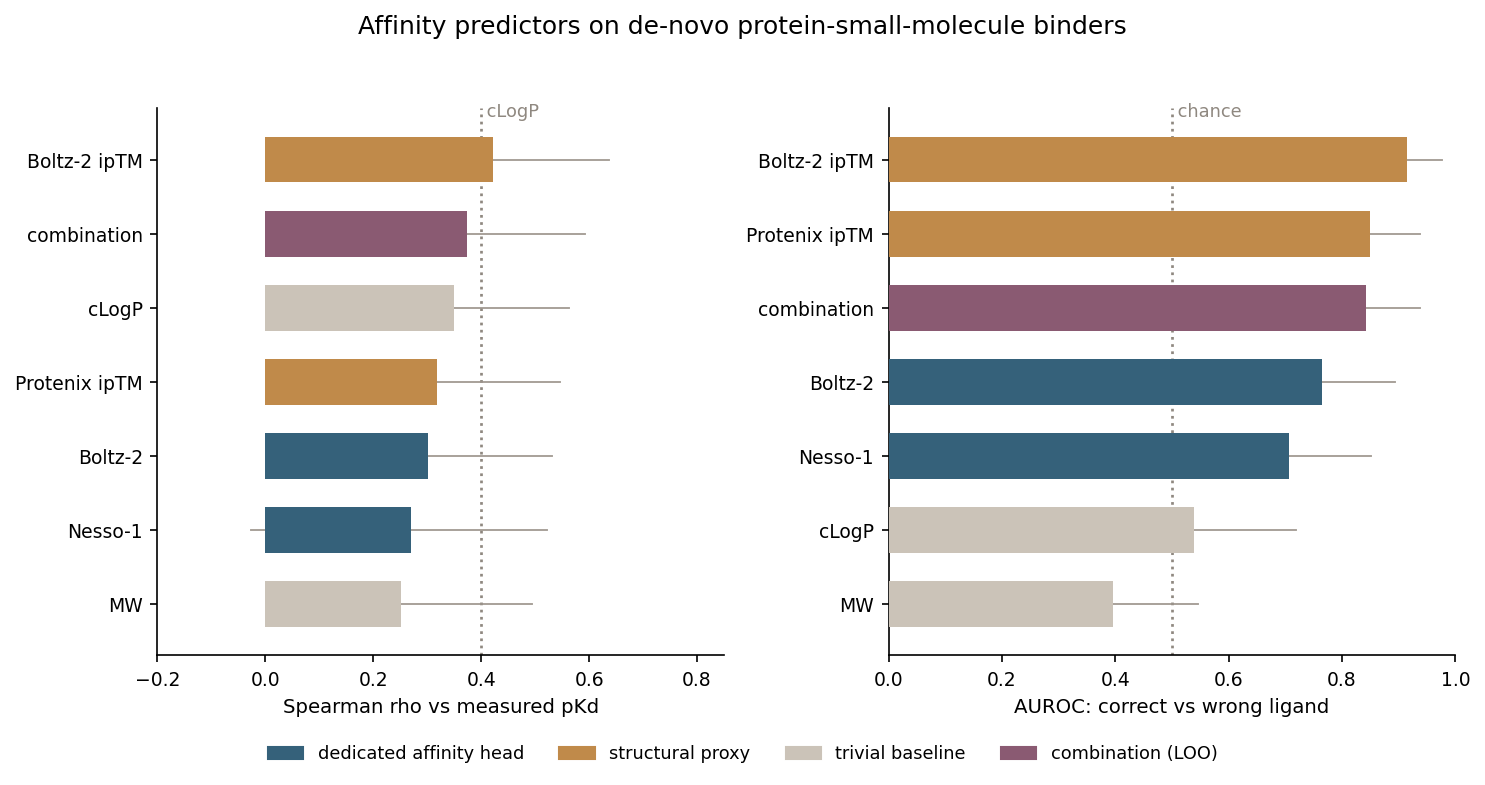
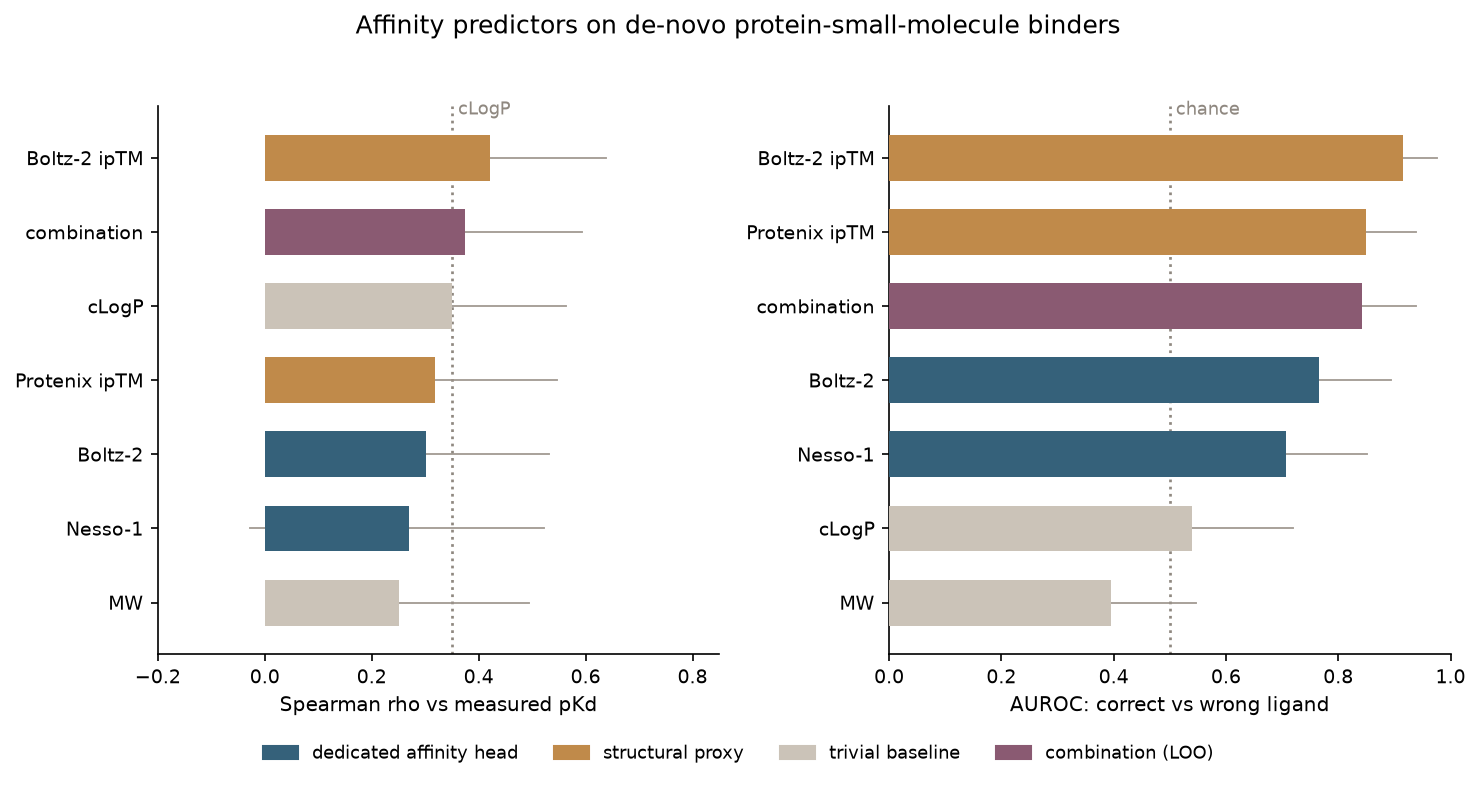
Refresh figure + docs to the merged 61-system counts
The Rhobin merge (PR #1) grew the data to 61 systems / 50 binders / 11
negatives but left the README numbers, figure reference line, and script
docstrings at the old 47/37/10 values. Fix them:

- make_figure.py: the left-panel cLogP reference line was hardcoded at
  0.40 (the 47-system value); compute it from the data so it tracks the
  actual cLogP Spearman (now +0.35) and cannot go stale again.
- Regenerate benchmark.png / benchmark_full.png at 61 systems.
- README: 61/50/11, Boltz-2 +0.30, cLogP +0.35, Boltz-2 ipTM +0.42,
  AUROC 0.91, LOO combination +0.37 (tied); results table refreshed.
- Drop hardcoded counts from make_figure.py / score.py docstrings.

diff --git a/scripts/make_figure.py b/scripts/make_figure.py
@@ -2,8 +2,8 @@
   benchmark.png       select metrics (README face): affinity heads vs a proxy vs baselines + combination
   benchmark_full.png  every metric score.py computes
 
-Left panel ranks measured pKd (Spearman among the 37 binders; dotted = cLogP). Right panel tells the
-correct ligand from the wrong one (AUROC over all 47; dotted = chance). Bars are 95% bootstrap CIs.
+Left panel ranks measured pKd (Spearman among the binders; dotted = cLogP). Right panel tells the
+correct ligand from the wrong one (AUROC over all pairs; dotted = chance). Bars are 95% bootstrap CIs.
 The leave-one-out combination is its own bar. Stats: score.py.
 """
 
@@ -65,7 +65,8 @@ def bars(ax, data, ref, ref_label, xlabel, xlim):
 
 def render(reg, spec, out, height):
     fig, (a, b) = plt.subplots(1, 2, figsize=(10, height))
-    bars(a, reg, 0.40, "cLogP", "Spearman rho vs measured pKd", (-0.2, 0.85))
+    clogp_rho = next(v for lab, v, *_ in reg if lab == "cLogP")
+    bars(a, reg, clogp_rho, "cLogP", "Spearman rho vs measured pKd", (-0.2, 0.85))
     bars(b, spec, 0.5, "chance", "AUROC: correct vs wrong ligand", (0.0, 1.0))
     cats = ("aff", "prox", "base", "combo")
     handles = [plt.Rectangle((0, 0), 1, 1, color=COL[c]) for c in cats]

diff --git a/scripts/score.py b/scripts/score.py
@@ -2,8 +2,8 @@
 
 Joins reference/experimental_reference_ground_truth.csv with every predictions/*_predictions.csv
 (by id) and evaluates:
-  regression   on the 37 binders: does a method rank measured pKd? (Spearman/Pearson/RMSE + CI)
-  specificity  on all 47: can a method tell the correct ligand from the wrong one? (AUROC)
+  regression   on the binders: does a method rank measured pKd? (Spearman/Pearson/RMSE + CI)
+  specificity  on all pairs: can a method tell the correct ligand from the wrong one? (AUROC)
   combine      leave-one-out CV: do methods combine to beat the best single one?
 """
 

diff --git a/README.md b/README.md
@@ -4,9 +4,9 @@ Do protein-ligand affinity predictors work on **de-novo designed** binders? Affi
 score them on natural targets; this is a small complementary split built from published de-novo
 designs.
 
-**47 protein-ligand pairs:**
-- **37 binders** with a measured KD (pKd).
-- **10 matched negatives**: the same designed protein paired with a *wrong* ligand (confirmed
+**61 protein-ligand pairs:**
+- **50 binders** with a measured KD (pKd).
+- **11 matched negatives**: the same designed protein paired with a *wrong* ligand (confirmed
   non-binding), so a predictor has to read the interface, not the fold alone.
 
 Five model families, scored two ways (cofolder affinity heads converted to `pK = 6 -
@@ -19,29 +19,29 @@ cLogP baselines, for 15 metric columns in all.
 
 ![benchmark](figures/benchmark.png)
 
-Left panel: rank affinity among the 37 binders (Spearman vs pKd). Right panel: tell the correct
-ligand from the wrong one across all 47 (AUROC). Bars are 95% bootstrap CIs. This shows one metric
+Left panel: rank affinity among the 50 binders (Spearman vs pKd). Right panel: tell the correct
+ligand from the wrong one across all 61 (AUROC). Bars are 95% bootstrap CIs. This shows one metric
 per model plus the baselines; the full leaderboard (all 15 metrics) is in
 [`figures/benchmark_full.png`](figures/benchmark_full.png), and `score.py` prints every metric.
 
 - **Ranking affinity is hard.** The dedicated affinity heads do not beat lipophilicity: Boltz-2
-  +0.41, Nesso-1 +0.33, versus cLogP +0.40. Structural confidence edges ahead (Boltz-2 ipTM +0.54);
-  the interface-PAE metrics (min/mean ipae) cluster with it, none breaking out of the ~0.4-0.5 band.
-  CIs are wide at n=37.
-- **Combining does not help.** A leave-one-out combination of four metrics (+0.56) is statistically
-  tied with the best single metric, Boltz-2 ipTM (+0.54): the bootstrap CI on the difference is
-  [-0.25, +0.29], spanning 0. For specificity it trails Boltz-2 ipTM (0.83 vs 0.93). No evidence the
+  +0.30, Nesso-1 +0.27, versus cLogP +0.35. Structural confidence edges ahead (Boltz-2 ipTM +0.42);
+  the interface-PAE metrics (min/mean ipae) cluster with it, none breaking out of the ~0.3-0.4 band.
+  CIs are wide at n=50.
+- **Combining does not help.** A leave-one-out combination of four metrics (+0.37) is statistically
+  tied with the best single metric, Boltz-2 ipTM (+0.42): the bootstrap CI on the difference is
+  [-0.31, +0.23], spanning 0. For specificity it trails Boltz-2 ipTM (0.84 vs 0.91). No evidence the
   metrics carry complementary signal here.
 
 | task | best single | cLogP | combination (LOO) |
 |---|---|---|---|
-| rank pKd (Spearman) | +0.54 | +0.40 | +0.56 (tied) |
-| tell right from wrong ligand (AUROC) | 0.93 | 0.44 | 0.83 |
+| rank pKd (Spearman) | +0.42 | +0.35 | +0.37 (tied) |
+| tell right from wrong ligand (AUROC) | 0.91 | 0.54 | 0.84 |
 
 ## Caveats
 
-Small n (37 + 10): CIs are wide and orderings are suggestive. The 10 negatives are confirmed
-non-binders from ~6 designed proteins. This small n reflects the field, not the search: a systematic
+Small n (50 + 11): CIs are wide and orderings are suggestive. The 11 negatives are confirmed
+non-binders from a handful of designed proteins. This small n reflects the field, not the search: a systematic
 survey of the de novo literature turns up essentially no further designed binders of *organic* small
 molecules with a precise measured KD — the remaining de novo binders are metallo-cofactor systems (heme /
 Zn-porphyrin / Zn-chlorophyll maquettes) or designed pockets grafted onto natural scaffolds. The set is
